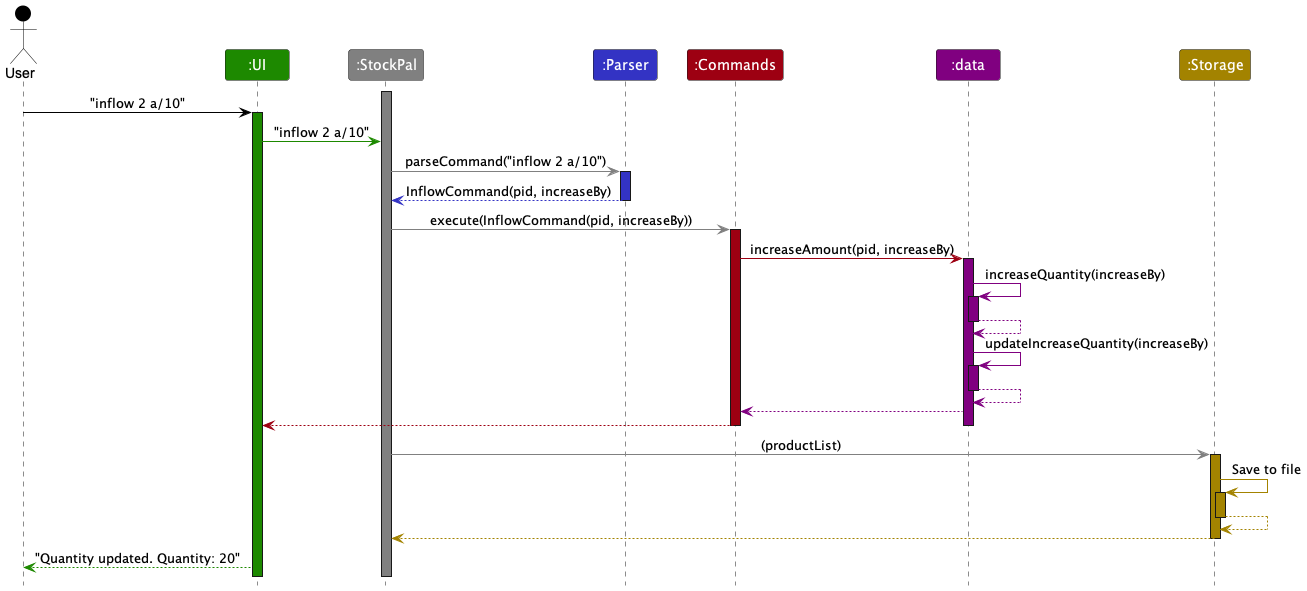
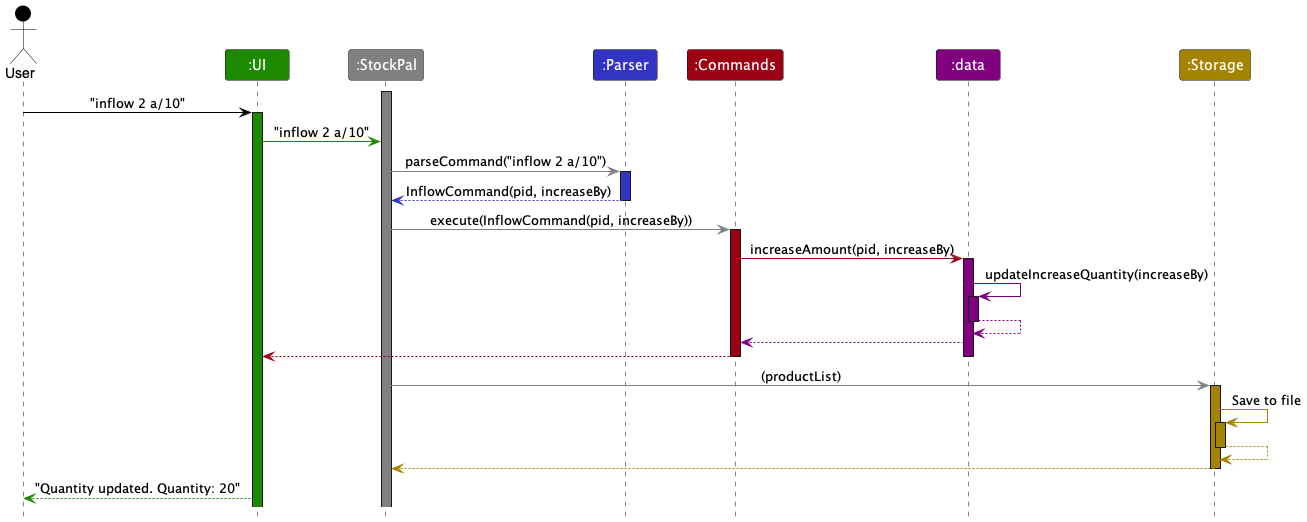
Update DG v1.0

diff --git a/src/main/java/seedu/stockpal/commands/InflowCommand.java b/src/main/java/seedu/stockpal/commands/InflowCommand.java
@@ -49,6 +49,7 @@ public class InflowCommand extends ListActionCommand {
         }
         productList.increaseAmount(productIndex, amountToIncrease);
 
+        //@@author EdmundTangg
         this.time = LocalDateTime.now();
         Transaction transaction = createTransaction(pid, amountToIncrease, time);
         transactionList.addTransaction(transaction);
@@ -56,6 +57,7 @@ public class InflowCommand extends ListActionCommand {
     }
 
 
+    //@@author EdmundTangg
     private Transaction createTransaction(Pid pid,
                                       Integer amountToIncrease,
                                       LocalDateTime time) {

diff --git a/docs/DeveloperGuide.md b/docs/DeveloperGuide.md
@@ -119,19 +119,92 @@ This section describes some noteworthy details on how certain features are imple
 
 #### Design consideration
 
+### InflowCommand Feature
+
+**API** : [`InflowCommand.java`](https://github.com/AY2324S2-CS2113T-T09-3/tp/blob/master/src/main/java/seedu/stockpal/commands/InflowCommand.java)
+
+The `InflowCommand` class is used to increase the quantity of a specific product in the inventory.
+This could represent scenarios like receiving new stock and updating inventory with new quantities.
+
+![Structure of the Storage Component](images/InflowCommandClass.png)
+
+**Implementation of InflowCommand**
+
+The InflowCommand class is called in this format: `InflowCommand(pid, amountToIncrease)`
+When the InflowCommand is called, a new instance of the InflowCommand initialised with pid and
+amountToIncrease would be created.
+
+The execute method will call `increaseAmount` which is a method of the ProductList class.
+In the ProductList class, the `increaseAmount` method will call a `updatedIncreaseQuantity`
+method in the quantity class.
+
+It is implemented this way to adhere to Single Responsibility Principle (SRP), such that the 
+ProductList class will only handle the product involved in quantity increase, whereas the
+Quantity class will be responsible for updating the quantities.
+
+**Attributes**
+* pid: The unique Product ID for each product
+* quantity: The amount of quantity to increase product by
+
+**Methods**
+* `InflowCommand`: Constructor for creating a new instance of the InflowCommand class.
+* `execute`: Method to increase quantity of the specified product.
+  * `execute` calls `increaseAmount` in the ProductList class.
+  * `increaseAmount` will call `updateIncreaseQuantity` in the Quantity class.
+
+The following sequence diagram shows how the InflowCommand works.
+![InflowCommand Class](images/InflowCommandSequence.png)
+
+### OutflowCommand Feature
+
+**API** : [`OutflowCommand.java`](https://github.com/AY2324S2-CS2113T-T09-3/tp/blob/master/src/main/java/seedu/stockpal/commands/OutflowCommand.java)
+
+The `OutflowCommand` class is used to decrease the quantity of a specific product in the inventory.
+This could represent scenarios like selling products and updating inventory with new updated quantities.
+
+![OutflowCommand Class](images/OutflowCommandClass.png)
+
+**Implementation of OutflowCommand**
+
+The OutflowCommand class is called in this format: `OutflowCommand(pid, amountToDecrease)`
+When the OutflowCommand is called, similar to the InflowCommand class, a new instance of the 
+OutflowCommand initialised with pid and amountToDecrease would be created.
+
+The execute method will call `decreaseAmount` which is a method of the ProductList class.
+In the ProductList class, the `decreaseAmount` method will call a `updatedDecreaseQuantity`
+method in the quantity class.
+
+It is implemented this way to adhere to Single Responsibility Principle (SRP), such that the
+ProductList class will only handle the product involved in quantity decrease, whereas the
+Quantity class will be responsible for updating the quantities.
+
+**Attributes**
+* pid: The unique Product ID for each product
+* quantity: The amount of quantity to decrease product by
+
+**Methods**
+* `OutflowCommand`: Constructor for creating a new instance of the InflowCommand class.
+* `execute`: Method to increase quantity of the specified product.
+  * `execute` calls `decreaseAmount` in the ProductList class.
+  * `decreaseAmount` in ProductList class will call `updateDecreaseQuantity` in the Quantity class.
+
+The following sequence diagram shows how the OutflowCommand works.
+![OutflowCommand Class](images/OutflowCommandSequence.png)
 --------------------------------------------------------------------------------------------------------------------
 
 ## **Appendix: Requirements**
 
 ### Product scope
 
-**Target user profile**:
+**Target user profile**: 
+* Small business owners who are looking to keep track of their inventory using CLI
+* Possibly established companies looking to expand our application
 
-{Describe the target user profile}
-
-**Value proposition**:
-
-{Describe the value proposition: what problem does it solve?}
+**Value proposition**: <br>
+Traditional inventory management methods often involve manual data entry, spreadsheets, and paper-based 
+tracking systems. These processes are time-consuming, error-prone, and lack real-time visibility into 
+inventory status. StockPal allows users to quickly update, track, and monitor inventory data through 
+intuitive command-line commands, saving time and improving efficiency.
 
 ## User Stories
 
@@ -142,11 +215,11 @@ This section describes some noteworthy details on how certain features are imple
 
 ## Non-Functional Requirements
 
-{Give non-functional requirements}
+* Users who use mainstream OS and has Java 11 or above installed.
 
 ## Glossary
 
-* *glossary item* - Definition
+* Mainstream OS: Windows, Linux, Unix, MacOS
 
 --------------------------------------------------------------------------------------------------------------------
 
